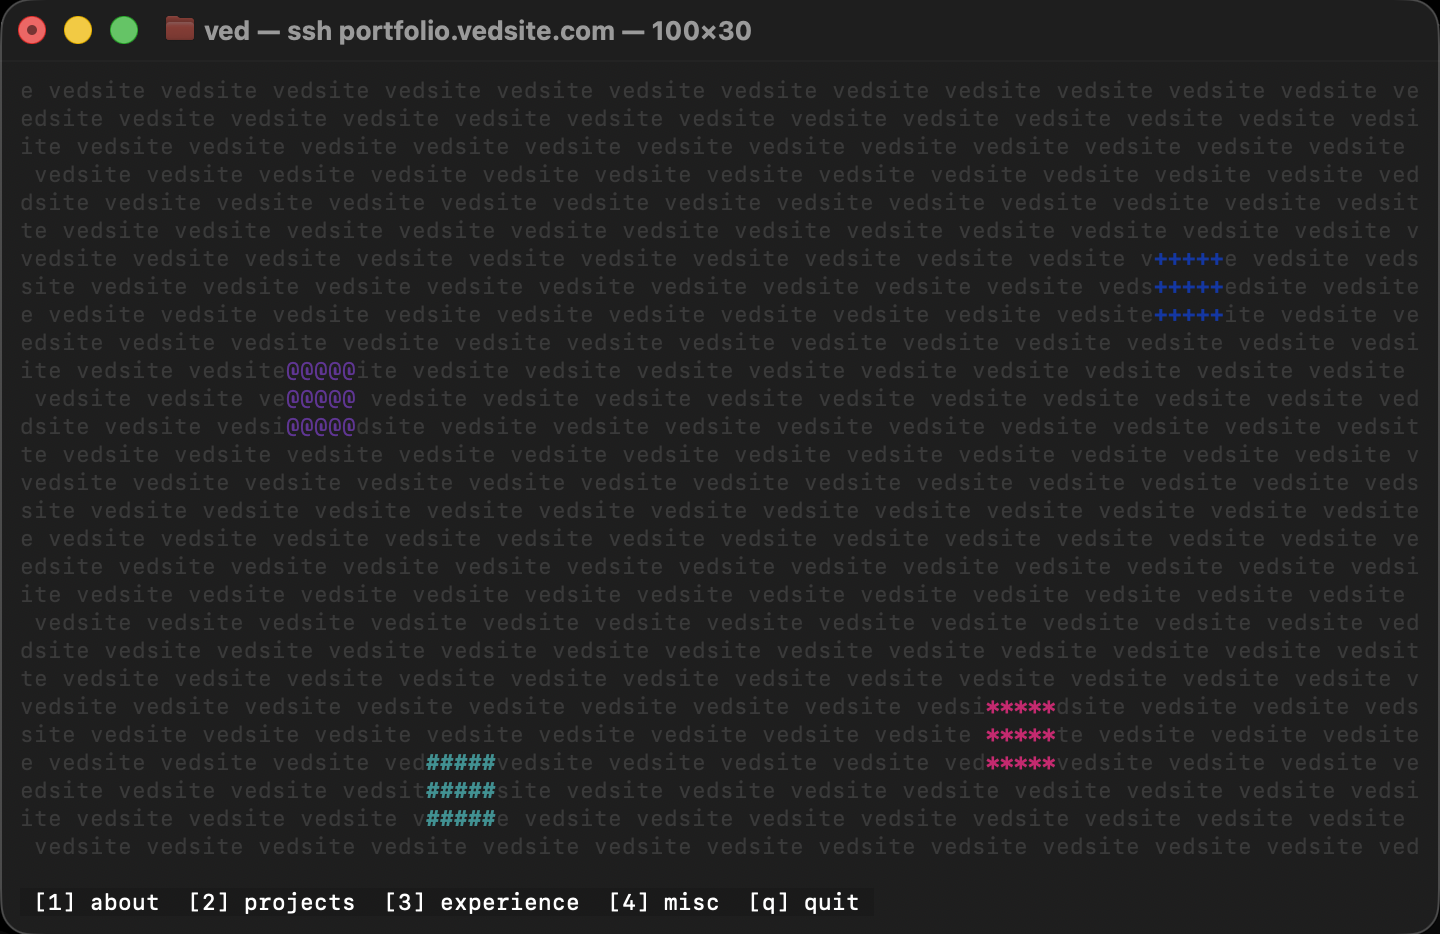
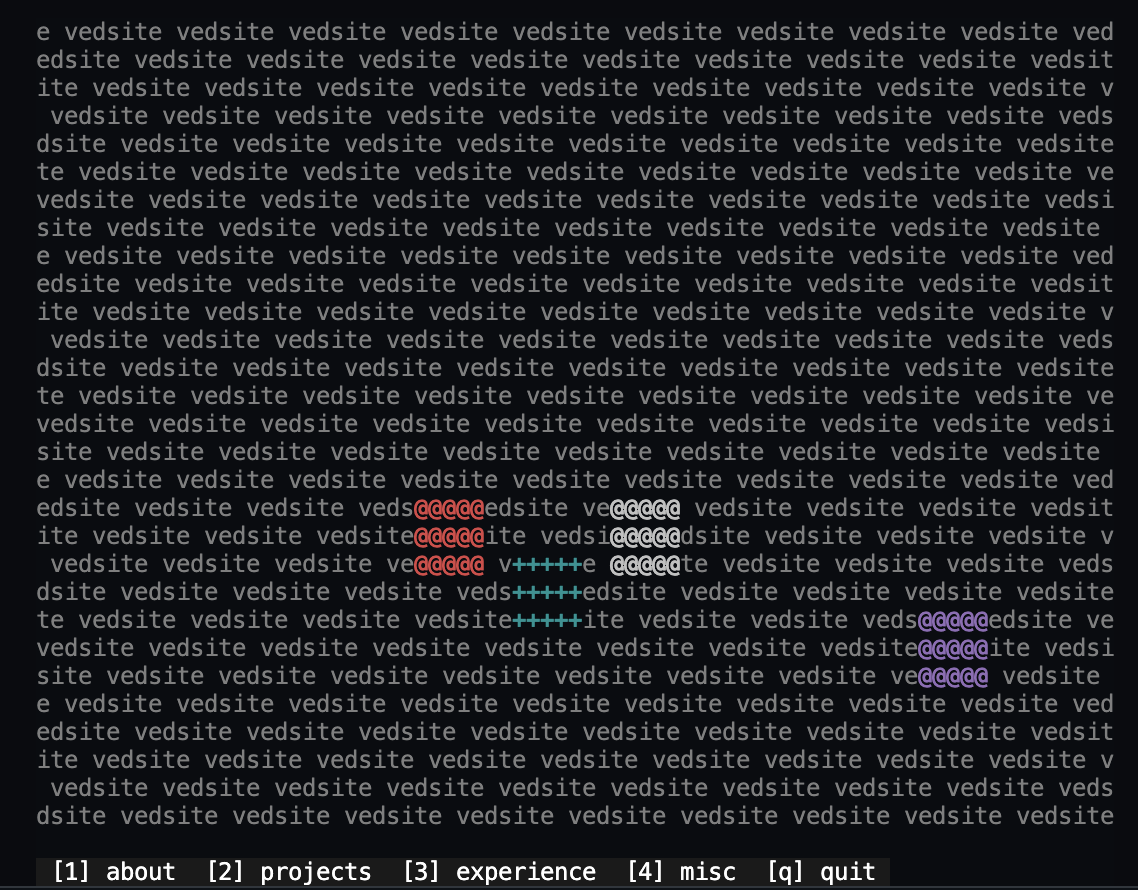
updated ssh and experience

diff --git a/frontend/experience.css b/frontend/experience.css
@@ -1,7 +1,7 @@
 /* experience.css - Misc-style single page layout */
 
 body {
-    background-color: #1a2744;
+    background-color: #D4A017;
     overflow-x: hidden !important;
     overflow-y: auto !important;
     height: 100vh !important;
@@ -71,7 +71,7 @@ body {
 
 /* Experience cards */
 .experience-card {
-    background: rgba(255, 255, 255, 0.2);
+    background: rgba(255, 255, 255, 0.05);
     border: 1px solid rgba(255, 255, 255, 0.3);
     border-radius: 12px;
     padding: 16px 20px;

diff --git a/frontend/home/home.css b/frontend/home/home.css
@@ -163,7 +163,7 @@ a:not(.nav-shape):not(.home-btn) {
 
 #about-shape { background-color: #cc0000; }
 #projects-shape { background-color: rebeccapurple; }
-#experience-shape { background-color: #1a2744; }
+#experience-shape { background-color: #D4A017; }
 #misc-shape { background-color: #069494; }
 
 .contact-icons img {

diff --git a/frontend/home/home.js b/frontend/home/home.js
@@ -153,7 +153,7 @@ animate();
 const pageColors = {
     'about': '#cc0000',
     'projects': '#663399', // rebeccapurple
-    'experience': '#1a2744',
+    'experience': '#D4A017',
     'misc': '#069494'
 };
 

diff --git a/main.go b/main.go
@@ -36,10 +36,10 @@ type Shape struct {
 var shapeChars = []string{"#", "@", "*", "+"}
 
 var pageColors = []lipgloss.Color{
-	lipgloss.Color("#D60270"),
-	lipgloss.Color("#663399"),
-	lipgloss.Color("#0038A8"),
-	lipgloss.Color("#069494"),
+	lipgloss.Color("#cc0000"), // about
+	lipgloss.Color("#663399"), // projects (rebeccapurple)
+	lipgloss.Color("#D4A017"), // experience (mustard)
+	lipgloss.Color("#069494"), // misc
 }
 
 var pageLabels = []string{"about", "projects", "experience", "misc"}
@@ -245,53 +245,108 @@ func (m model) renderHome() string {
 func (m model) renderPage() string {
 	var color lipgloss.Color
 	var title string
-	var body string
+	var content string
 
 	switch m.currentPage {
 	case "about":
 		color = pageColors[0]
-		title = "ABOUT"
-		body = "Coming soon...\n  ║\n  ║       Visit vedsite.com/about"
+		title = "ABOUT ME"
+		content = `
+instead of writing an all-encompassing
+description, i thought it'd be better
+to show you instead.
+
+► roller skating champ (hk 2016)
+► neu club squash vice president
+► first-gen cs student & mentor
+► film enthusiast (synecdoche ny)
+► stereolab, deerhunter, fishmans
+
+      visit vedsite.com/about
+      for the full photo gallery`
+
 	case "projects":
 		color = pageColors[1]
 		title = "PROJECTS"
-		body = `
-       ► SSH Portfolio
-         Terminal-accessible portfolio via SSH
+		content = `
+► SSH Portfolio
+  terminal-accessible portfolio
 
-       ► NEU SquashHub
-         Attendance service for NEU Club Squash
+► NEU SquashHub
+  full-stack team management app
 
-       ► Premier League Performance Analysis
-         Selenium scraping & data visualization
+► Premier League Analysis
+  selenium scraping & regression
 
-       ► Sanguine Strategy Card Game
-         Turn-based card game, based on Queen's Blood`
+► Sanguine Card Game
+  turn-based strategy game
+
+► Light-Em-All
+  kruskal's algorithm puzzle
+
+► Carbon Neutrality Sim
+  racket environmental game`
+
 	case "experience":
 		color = pageColors[2]
 		title = "EXPERIENCE"
-		body = "Coming soon...\n  ║\n  ║       Visit vedsite.com/experience"
+		content = `
+Northeastern University
+B.S. Computer Science, Minor in Math
+expected may 2028
+
+─────────────────────────────────────
+
+► Vice President | NEU Club Squash
+  sep 2024 – present
+
+► Program Alumni | Khoury FIRST
+  sep 2024 – present
+
+► Software Dev Intern | TalentHome
+  jun – aug 2023 | mumbai, india`
+
 	case "misc":
 		color = pageColors[3]
 		title = "MISC"
-		body = "Coming soon...\n  ║\n  ║       Visit vedsite.com/misc"
+		content = `
+live api integrations:
+
+♫ spotify now playing & queue
+♫ last.fm top artists
+◎ letterboxd recent & top 4
+◎ strava stats (coming soon)
+
+visit vedsite.com/misc to see
+what i'm listening to & watching!`
 	}
 
-	style := lipgloss.NewStyle().Foreground(color)
 	dimStyle := lipgloss.NewStyle().Foreground(lipgloss.Color("#888888"))
 
-	content := fmt.Sprintf(`
-  ╔══════════════════════════════════════════════════╗
-  ║              %-36s║
-  ╠══════════════════════════════════════════════════╣
-  ║                                                  ║
-  ║       %s
-  ║                                                  ║
-  ╚══════════════════════════════════════════════════╝`, title, body)
+	// Create a proper bordered box using lipgloss
+	titleBox := lipgloss.NewStyle().
+		Foreground(color).
+		Bold(true).
+		Render(title)
 
-	footer := dimStyle.Render("\n\n  [b] back  [q] quit")
+	contentBox := lipgloss.NewStyle().
+		Foreground(color).
+		Border(lipgloss.RoundedBorder()).
+		BorderForeground(color).
+		Padding(1, 2).
+		Render(titleBox + "\n" + content)
 
-	return style.Render(content) + footer
+	// Center the box in the terminal
+	centered := lipgloss.NewStyle().
+		Width(m.width).
+		Height(m.height-2).
+		Align(lipgloss.Center, lipgloss.Center).
+		Render(contentBox)
+
+	footer := dimStyle.Render("[b] back  [q] quit")
+	footerCentered := lipgloss.NewStyle().Width(m.width).Align(lipgloss.Center).Render(footer)
+
+	return centered + "\n" + footerCentered
 }
 
 func main() {
